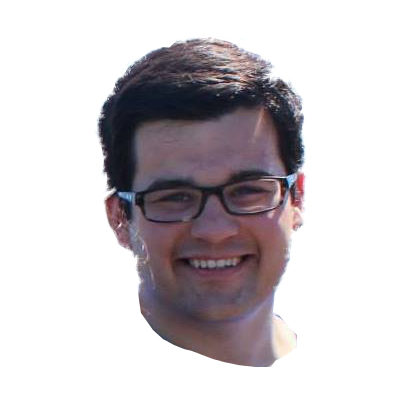
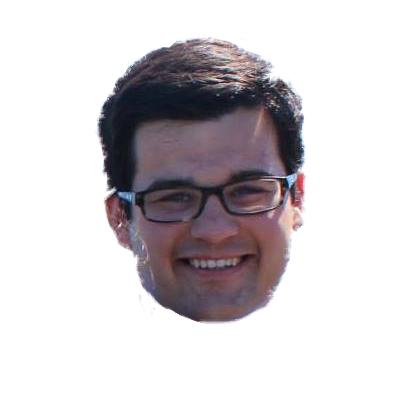
Made Better Faces

Changed region(s): [[0.33, 0.69, 0.75, 0.93]]

diff --git a/AshleySite.html b/AshleySite.html
@@ -277,10 +277,9 @@ $(document).ready(function(){
 });
 
 function JeremysDiv(){
-	var Jeremy = document.createElement('div');
+	var Jeremy = document.createElement('img');
 	Jeremy.id="Jeremy";
-	Jeremy.innerHTML+="Jeremy";
-	Jeremy.style.background='yellow';
+	Jeremy.src="https://raw.githubusercontent.com/jeremyfrankio/Ashley/master/JeremyFace.png";
 	Jeremy.style.width="200px";
 	Jeremy.style.height="200px";
 	Jeremy.setAttribute("alt","I love you");
